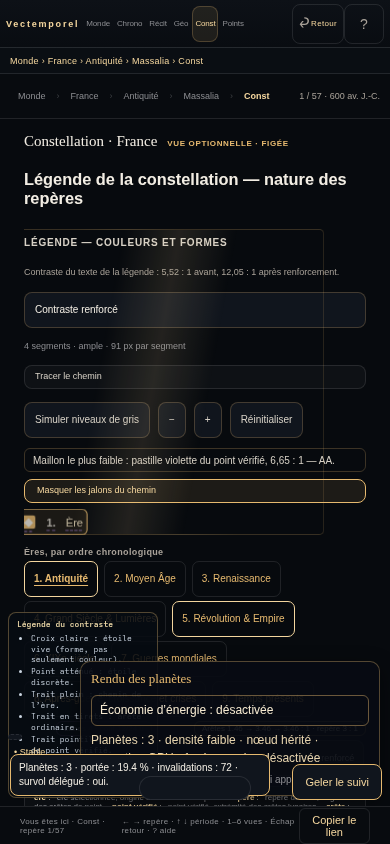
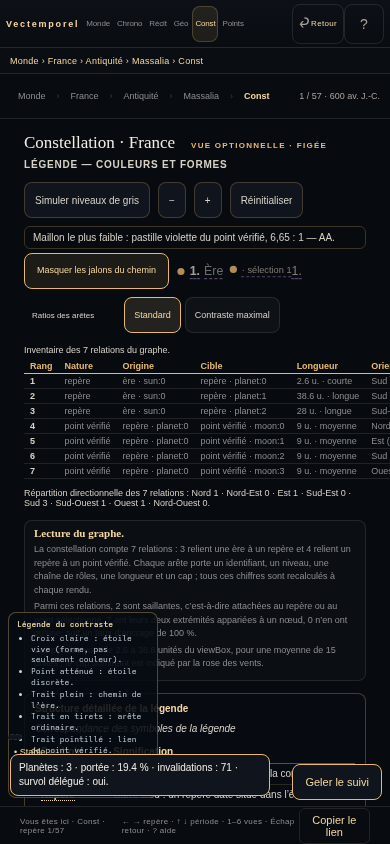
fix(ui): masquer les panneaux de lentilles et poser les composants partages

diff --git a/src/ui/components.js b/src/ui/components.js
@@ -1,0 +1,87 @@
+/* Composants partagés de l'interface Vectemporel.
+ * Pur DOM, aucun état, aucun CSS injecté : les classes sont stylées dans
+ * styles.css / tokens.css. Tout texte passe par textContent. */
+
+export function el(tag, className, text) {
+  const node = document.createElement(tag);
+  if (className) node.className = className;
+  if (text !== undefined) node.textContent = text;
+  return node;
+}
+
+export function kicker(text) {
+  return el('div', 'view-kicker', text);
+}
+
+export function badge(text, kind = '') {
+  const node = el('span', `ui-badge${kind ? ` is-${kind}` : ''}`, text);
+  node.dataset.uiBadge = kind || 'neutral';
+  return node;
+}
+
+export function metric(label, value, hint = '') {
+  const node = el('div', 'ui-metric');
+  node.append(el('span', 'ui-metric-label', label), el('strong', 'ui-metric-value', String(value)));
+  if (hint) node.appendChild(el('span', 'ui-metric-hint', hint));
+  return node;
+}
+
+export function metrics(items) {
+  const node = el('div', 'ui-metrics');
+  for (const item of items) node.appendChild(metric(item.label, item.value, item.hint));
+  return node;
+}
+
+export function panel({ title, subtitle = '', level = 'h2', children = [], id = '' }) {
+  const node = el('section', 'ui-panel');
+  if (id) node.id = id;
+  node.appendChild(el(level, 'ui-panel-title', title));
+  if (subtitle) node.appendChild(el('p', 'ui-panel-subtitle', subtitle));
+  for (const child of children) node.appendChild(child);
+  return node;
+}
+
+export function empty(text, id = '') {
+  const node = el('p', 'ui-empty', text);
+  if (id) node.id = id;
+  node.setAttribute('role', 'status');
+  node.setAttribute('aria-live', 'polite');
+  return node;
+}
+
+export function toolbar(children = [], label = 'Outils de la vue') {
+  const node = el('div', 'ui-toolbar');
+  node.setAttribute('role', 'toolbar');
+  node.setAttribute('aria-label', label);
+  for (const child of children) node.appendChild(child);
+  return node;
+}
+
+export function figure({ src, alt, caption = '', credit = '', license = '' }) {
+  const node = el('figure', 'ui-figure');
+  const image = el('img');
+  image.src = src;
+  image.alt = alt;
+  image.loading = 'lazy';
+  node.appendChild(image);
+  const parts = [caption, credit ? `© ${credit}` : '', license].filter(Boolean);
+  if (parts.length) node.appendChild(el('figcaption', 'ui-figure-caption', parts.join(' · ')));
+  return node;
+}
+
+export function tabs(items, activeId, onSelect) {
+  const node = el('div', 'ui-tabs');
+  node.setAttribute('role', 'tablist');
+  for (const item of items) {
+    const button = el('button', 'ui-tab', item.label);
+    button.type = 'button';
+    button.id = `ui-tab-${item.id}`;
+    button.setAttribute('role', 'tab');
+    button.setAttribute('aria-selected', String(item.id === activeId));
+    button.setAttribute('aria-controls', item.panelId);
+    button.tabIndex = item.id === activeId ? 0 : -1;
+    button.addEventListener('click', () => onSelect?.(item.id));
+    node.appendChild(button);
+  }
+  return node;
+}

diff --git a/src/views/_diagnostics.js b/src/views/_diagnostics.js
@@ -4,6 +4,8 @@
  * partagé entre les 10 registres). */
 const originalParents = new WeakMap();
 const states = new Map();
+const contexts = new Map();
+let markObserver = null;
 const DIAGNOSTICS_ENABLED = typeof location !== 'undefined'
   && new URLSearchParams(location.search).has('diagnostics');
 
@@ -17,6 +19,7 @@ export function installDiagnostics(ctx) {
     style.textContent = `
       body [data-${view}-diagnostic] { display: none !important; }
       body.${view}-diagnostics [data-${view}-diagnostic] { display: block !important; }
+      body:not(.atlas-diagnostics) [data-lens-panel] { display: none !important; }
       #${view}-diagnostics-toggle { position: fixed; top: 62px; right: 12px; z-index: 80;
         min-width: 44px; min-height: 36px; padding: 6px 12px; font: 600 12px/1 inherit;
         color: #f5e9d0; background: rgba(12,16,24,.92); border: 1px solid rgba(230,185,111,.5);
@@ -36,8 +39,19 @@ export function installDiagnostics(ctx) {
     document.head.appendChild(style);
   }
 
-  // Hors mode explicite, aucun bouton ni tiroir n'est créé en production.
-  if (!DIAGNOSTICS_ENABLED) return;
+  // Le marquage universel des panneaux a lieu même hors diagnostics : c'est ce
+  // qui permet de les masquer par défaut en production. Les lentilles étant
+  // chargées en différé, un observateur marque aussi les nœuds ajoutés ensuite.
+  contexts.set(view, ctx);
+  if (!markObserver && typeof MutationObserver !== 'undefined') {
+    markObserver = new MutationObserver(() => {
+      for (const [registeredView, registeredCtx] of contexts) mark(registeredCtx, registeredView);
+    });
+    markObserver.observe(document.body, { childList: true, subtree: true });
+  }
+  mark(ctx, view);
+  if (DIAGNOSTICS_ENABLED) document.body.classList.add('atlas-diagnostics');
+  else return;
 
   let state = states.get(view);
   if (!state) {
@@ -76,7 +90,13 @@ function mark(ctx, view) {
   const containers = [document.body, ctx.stage, ctx.layout].filter(Boolean);
   const pattern = /^(e\d{2,3}[-_ ]|.*-e\d{2,3})/i;
   document.querySelectorAll('[id]').forEach((node) => {
-    if (!pattern.test(node.id) || !containers.includes(node.parentElement)) return;
+    if (!pattern.test(node.id)) return;
+    const LENS = /(^|[-_])(e\d{2,3}|v2[-_]?e\d{3})([-_]|$)/i;
+    const isLens = LENS.test(node.id)
+      || String(node.className || '').split(/\s+/).some((name) => LENS.test(name));
+    const isSkip = /skip/i.test(node.id);
+    if (isLens && !isSkip && !node.hasAttribute('data-lens-panel')) node.setAttribute('data-lens-panel', '');
+    if (!containers.includes(node.parentElement)) return;
     if (node.hasAttribute(attr)) return;
     node.setAttribute(attr, '');
     originalParents.set(node, node.parentElement);

diff --git a/styles.css b/styles.css
@@ -406,3 +406,23 @@ button.atlas-chrono-global-result:focus-visible { outline: 2px solid var(--gold-
 .detail-figure { margin: 10px 0 14px; }
 .detail-figure img { display: block; width: 100%; max-height: 260px; object-fit: cover; border-radius: 8px; border: 1px solid var(--line); }
 .detail-caption { margin-top: 6px; color: var(--muted); font-size: 11px; line-height: 1.5; }
+
+/* V3 UI — composants partagés (identité sombre/éditoriale conservée). */
+.ui-panel { border: 1px solid var(--line); border-radius: var(--radius); padding: 16px 18px; background: rgba(255,255,255,.015); }
+.ui-panel-title { margin: 0 0 6px; font-family: var(--serif); font-size: 22px; font-weight: 450; color: var(--gold-bright); }
+.ui-panel-subtitle { margin: 0 0 12px; color: var(--muted); font-size: 12px; }
+.ui-metrics { display: grid; grid-template-columns: repeat(auto-fit, minmax(140px, 1fr)); gap: 10px; }
+.ui-metric { display: flex; flex-direction: column; gap: 2px; padding: 10px 12px; border: 1px solid var(--line); border-radius: 8px; }
+.ui-metric-label { color: var(--muted); font-size: 10px; text-transform: uppercase; letter-spacing: .06em; }
+.ui-metric-value { font-family: var(--serif); font-size: 24px; font-weight: 450; color: var(--gold-bright); }
+.ui-metric-hint { color: var(--muted-2); font-size: 11px; }
+.ui-badge { display: inline-flex; align-items: center; min-height: 24px; padding: 3px 9px; border: 1px solid var(--line-strong); border-radius: 999px; color: var(--gold); font-size: 11px; }
+.ui-empty { color: var(--muted); font-size: 12px; font-style: italic; }
+.ui-toolbar { display: flex; flex-wrap: wrap; gap: 8px; align-items: center; }
+.ui-figure { margin: 0; }
+.ui-figure img { display: block; width: 100%; border-radius: 8px; border: 1px solid var(--line); }
+.ui-figure-caption { margin-top: 6px; color: var(--muted); font-size: 11px; }
+.ui-tabs { display: flex; flex-wrap: wrap; gap: 6px; }
+.ui-tab { min-height: 36px; padding: 6px 12px; border: 1px solid var(--line); border-radius: 7px; background: transparent; color: var(--ink-soft); font: inherit; font-size: 12px; cursor: pointer; }
+.ui-tab[aria-selected="true"] { border-color: var(--gold); color: var(--gold-bright); }
+.ui-tab:focus-visible { outline: 2px solid var(--gold-bright); outline-offset: 2px; }

diff --git a/src/views/points.js b/src/views/points.js
@@ -1,5 +1,6 @@
 /* Vue dédiée à l'isolation de tous les points validés. */
 import { state, currentCountry, set } from '../domain/store.js';
+import { kicker, metrics } from '../ui/components.js';
 import { runLenses } from './lenses.js';
 
 
@@ -29,8 +30,13 @@ export function renderPoints(stage) {
 
   const layout = el('div', 'points-layout');
   const matrix = el('section', 'points-matrix');
-  matrix.appendChild(el('div', 'view-kicker', 'Matrice de couverture · points validés'));
+  matrix.appendChild(kicker('Matrice de couverture · points validés'));
   matrix.appendChild(el('h1', 'points-title', `${points.length} points extraits isolés`));
+  matrix.appendChild(metrics([
+    { label: 'Points', value: points.length, hint: 'extraits des audits locaux' },
+    { label: 'Domaines', value: domains.length, hint: '14 au référentiel' },
+    { label: 'Ères', value: country.eras.length, hint: 'pour ce pays' },
+  ]));
   const grid = el('div', 'points-grid');
   const header = el('div', 'points-grid-row is-head');
   header.appendChild(el('span', '', 'Ère'));
@@ -88,7 +94,7 @@ export function renderPoints(stage) {
   matrix.appendChild(filters);
 
   const detail = el('aside', 'points-detail');
-  detail.appendChild(el('div', 'view-kicker', `${visible.length} point(s) dans ce périmètre`));
+  detail.appendChild(kicker(`${visible.length} point(s) dans ce périmètre`));
   if (selected) {
     detail.appendChild(el('h3', 'points-point-title', selected.subject));
     detail.appendChild(el('p', 'points-point-text', selected.text));
